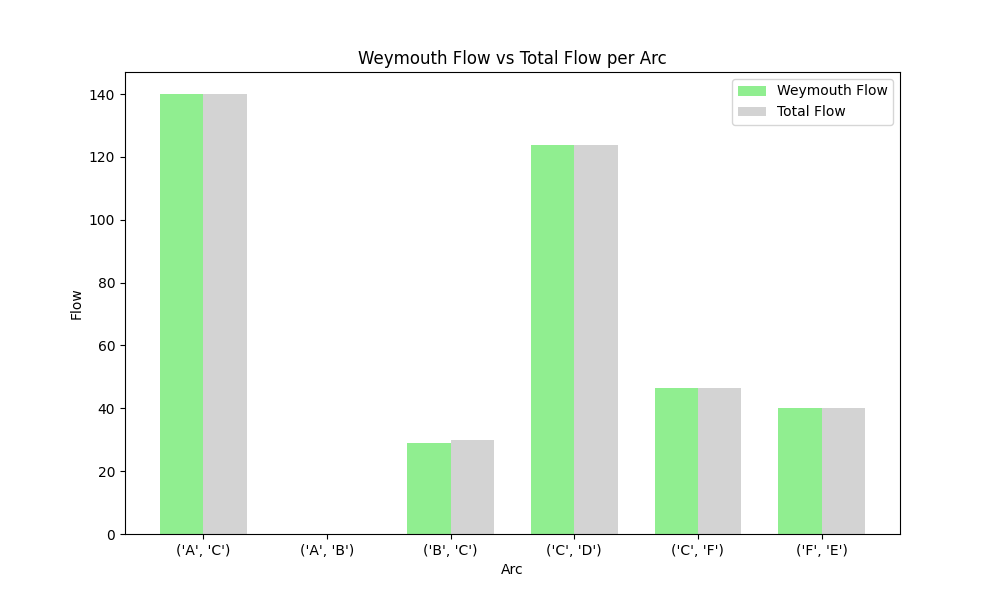
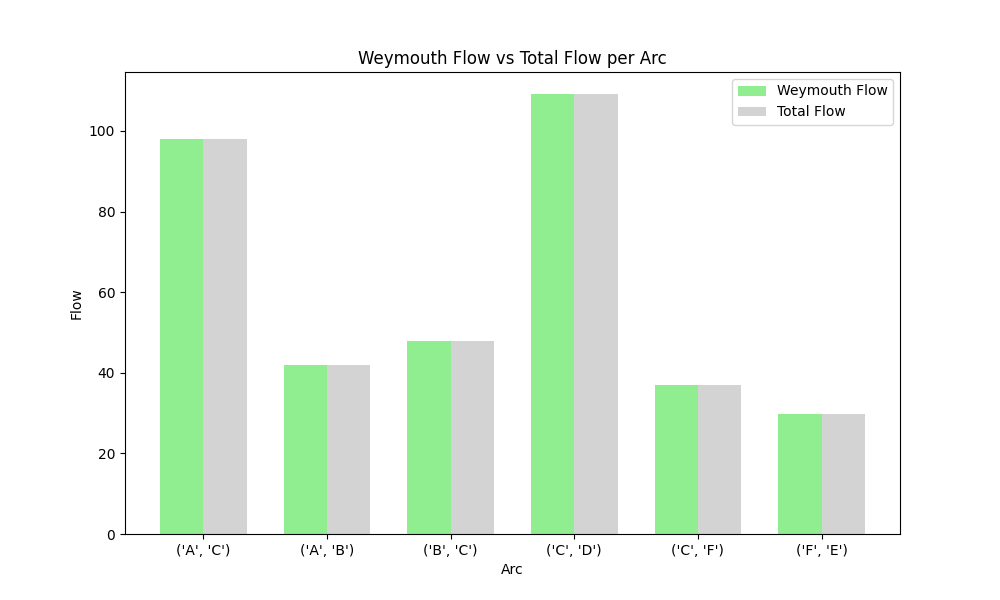
Base model done

diff --git a/base_model.py b/base_model.py
@@ -5,8 +5,12 @@ import matplotlib
 import pyomo.environ as pyo
 import networkx
 import numpy as np
+import itertools
 
-NUMBER_OF_HOMOGENEOUS_SPLITS =10 
+NUMBER_OF_HOMOGENEOUS_SPLITS =11
+
+splits_per_arc = np.linspace(0, 1, NUMBER_OF_HOMOGENEOUS_SPLITS)
+
 
 NUMBER_OF_CUTTING_PLANES_P_IN = 10
 P_IN_LOW = 4
@@ -70,7 +74,7 @@ def create_base_model(network: networkx.Graph):
 
     model.N_gamma = pyo.Set(
         within=model.N,
-        initialize=[n for n, d in network.nodes(data=True) if "compression_max" in d]
+        initialize=[n for n, d in network.nodes(data=True) if "compression_increase" in d]
     ) # Nodes with compressors
 
     model.N_s = pyo.Set(
@@ -93,7 +97,48 @@ def create_base_model(network: networkx.Graph):
     # Special order sets
     
     model.Z_theta = pyo.Set(initialize = range(NUMBER_OF_DENSITY_BOUNDS))  # Type 1, pressure upper bound
-    model.Z_v = pyo.Set(initialize = range(NUMBER_OF_HOMOGENEOUS_SPLITS))      # Type 1, homogeneous splitting
+    
+    E_nz_init = {}
+
+    # Homogeneous splitting parameters
+    for n, arcs in model.A_n_minus.items():
+        if n in model.N_s:
+            order_arcs = len(arcs)
+            E_nz_init[n] = [z for z in itertools.product(splits_per_arc, repeat=order_arcs) if sum(z) == 1]
+
+    model.Z_v = pyo.Set(model.N_s, initialize = lambda model ,n: range(len(E_nz_init[n])) if n in E_nz_init else range(0))      # Type 1, homogeneous splitting
+
+    # Auxiliary set for defining E
+    def E_index_init(model):
+        return (
+            (n, z, a)
+            for n in model.N_s
+            for z in model.Z_v[n]
+            for a in model.A_n_minus[n]
+        )
+
+    model.E_index = pyo.Set(initialize=E_index_init)
+
+    # Auxilliary set for defining e
+    def e_index_init(m):
+        return (
+            (n, c, z)
+            for n in m.N_s
+            for c in m.C
+            for z in m.Z_v[n]
+        )
+
+    model.e_index = pyo.Set(dimen=3, initialize=e_index_init)
+
+    # Auxilliary set for defining v
+    def v_index_init(m):
+        return (
+            (n, z)
+            for n in m.N_s
+            for z in m.Z_v[n]
+        )
+   
+    model.v_index = pyo.Set(dimen=2, initialize=v_index_init)
 
     # Other sets
     model.L = pyo.Set(initialize = range(len(pairs)))      # Set of cutting planes
@@ -182,10 +227,59 @@ def create_base_model(network: networkx.Graph):
     # Minimum pressure at demand nodes
     model.P_min = pyo.Param(model.N_m, initialize={n: network.nodes[n].get('min_outlet_pressure', 0) for n in model.N_m})
 
-    # Fuel consumption parameters for compression nodes
-    model.K_out_pipe = pyo.Param(model.N_gamma, initialize={n: network.nodes[n].get('compression_constants', {}).get('K_out_pipe', 0) for n in model.N_gamma})
-    model.K_into_pipe = pyo.Param(model.N_gamma, initialize={n: network.nodes[n].get('compression_constants', {}).get('K_into_pipe', 0) for n in model.N_gamma})
-    model.K_flow = pyo.Param(model.N_gamma, initialize={n: network.nodes[n].get('compression_constants', {}).get('K_flow', 0) for n in model.N_gamma})
+    # Fuel consumption parameters for compression nodes (per component)
+    model.K_out_pipe = pyo.Param(
+        model.N_gamma,
+        model.C,
+        initialize=lambda model, n, c:
+            network.nodes[n]
+            .get('compression_constants', {})
+            .get(c, {})
+            .get('K_out_pipe', 0),
+        default=0
+    )
+
+    model.K_into_pipe = pyo.Param(
+        model.N_gamma,
+        model.C,
+        initialize=lambda model, n, c:
+            network.nodes[n]
+            .get('compression_constants', {})
+            .get(c, {})
+            .get('K_into_pipe', 0),
+        default=0
+    )
+
+    model.K_flow = pyo.Param(
+        model.N_gamma,
+        model.C,
+        initialize=lambda model, n, c:
+            network.nodes[n]
+            .get('compression_constants', {})
+            .get(c, {})
+            .get('K_flow', 0),
+        default=0
+    )
+
+    # Pressure increase from compression
+    model.P_hat = pyo.Param(model.N_gamma, initialize={n: network.nodes[n].get('compression_increase', 1) for n in model.N_gamma})
+
+    # Pipe quality constraints
+    model.q_plus_arc = pyo.Param(model.A, model.C, initialize=lambda model, a1,a2, c: network.edges[a1,a2].get('max_pipe_fractions', {}).get(c, 0))
+    # Unused
+    model.q_minus_arc = pyo.Param(model.A, model.C, initialize=lambda model, a1,a2, c: 0)
+
+    # Node quality constraints
+    model.q_plus_node = pyo.Param(model.N_m, model.C, initialize=lambda model, n, c: network.nodes[n].get('max_fractions', {}).get(c, 0))
+    # Unused
+    model.q_minus_node = pyo.Param(model.N_m, model.C, initialize=lambda model, n, c: 0)
+
+
+    def E_init(m, n, z, a1,a2):
+        arc_idx = list(m.A_n_minus[n]).index((a1,a2))
+        return E_nz_init[n][z][arc_idx]
+
+    model.E_nza = pyo.Param(model.E_index, initialize=E_init)
 
     # -----------------------------
     # Variables
@@ -194,9 +288,10 @@ def create_base_model(network: networkx.Graph):
     model.p_in = pyo.Var(model.A, within=pyo.NonNegativeReals, initialize=0)  # Inlet pressure on arc a
     model.p_out = pyo.Var(model.A, within=pyo.NonNegativeReals, initialize=0)  # Outlet pressure on arc a
     model.theta = pyo.Var(model.A, model.Z_theta, within=pyo.Binary, initialize=0)  # Binary variables for pressure bounds
-    model.v = pyo.Var(model.N_s, model.Z_v, within=pyo.Binary, initialize=0)  # Binary variables for homogeneous splitting
+    model.v = pyo.Var(model.v_index, within=pyo.Binary, initialize=0)  # Binary variables for homogeneous splitting
     model.w = pyo.Var(model.N_gamma, model.C, within=pyo.NonNegativeReals, initialize=0)  # Continuous variables for compression fuel consumption
-    
+    model.e = pyo.Var(model.e_index, domain=pyo.NonNegativeReals, initialize=0)  # Auxiliary variable for homogeneous splitting flow
+
     #-----------------------------
     # Objective Function
     #-----------------------------
@@ -228,13 +323,13 @@ def create_base_model(network: networkx.Graph):
     # Constraint 2: Component ratio constraint (byproduct/stoichiometric)
     def component_ratio_rule(model, n, c):
         if n in model.N_hg and c in model.C:
-            return sum(model.f[a, c] for a in model.A_n_minus[n]) == model.alpha[n, c] * sum(model.f[a, cp] for a in model.A_n_minus[n] for cp in model.C)
+            return sum(model.f[a, c] for a in model.A_n_minus[n]) - sum(model.f[a, c] for a in model.A_n_plus[n]) == model.alpha[n, c] * (sum(model.f[a, cp] for a in model.A_n_minus[n] for cp in model.C) - sum(model.f[a, cp] for a in model.A_n_plus[n] for cp in model.C))
         return pyo.Constraint.Skip
     model.component_ratio = pyo.Constraint(model.N_hg, model.C, rule=component_ratio_rule)
 
     # Constraint 3: Demand satisfaction constraint for production nodes
     def demand_satisfaction_production_rule(model, h):
-        return sum(model.f[a, c] for c in model.C for n_prime in model.N_hg if model.supplier[n_prime] == h for a in model.A_n_minus[n_prime] ) >= sum(model.D[h,n] for n in model.N_m)
+        return sum(model.f[a, c] for c in model.C for n_prime in model.N_hg if model.supplier[n_prime] == h for a in model.A_n_minus[n_prime] ) -sum(model.f[a, c] for c in model.C for n_prime in model.N_hg if model.supplier[n_prime] == h for a in model.A_n_plus[n_prime] ) >= sum(model.D[h,n] for n in model.N_m)
     model.demand_satisfaction_production = pyo.Constraint( model.H, rule=demand_satisfaction_production_rule)
 
     # Constraint 4: Demand satisfaction constraint for market nodes
@@ -338,7 +433,7 @@ def create_base_model(network: networkx.Graph):
             # For each arc into the compression node, compute fuel consumption
             a = model.A_n_minus[n].first()
             a_prime = model.A_n_plus[n].first()
-            return model.w[n, c] == model.K_out_pipe[n] * model.p_in[a] - model.K_into_pipe[n] * model.p_out[a_prime] + model.K_flow[n] * model.f[a,c]
+            return model.w[n, c] == model.K_out_pipe[n, c] * model.p_in[a] - model.K_into_pipe[n, c] * model.p_out[a_prime] + model.K_flow[n, c] * model.f[a,c]
         return pyo.Constraint.Skip
 
     model.fuel_consumption = pyo.Constraint(model.N_gamma, model.C, rule=fuel_consumption_rule)
@@ -350,18 +445,67 @@ def create_base_model(network: networkx.Graph):
 
     model.fuel_flow_balance = pyo.Constraint(model.N_gamma, model.C, rule=fuel_flow_balance_rule)
 
-    def max_compression_rule(model, n):
+    def compression_increase_rule(model, n):
         if n in model.N_gamma:
             a = model.A_n_minus[n].first()
-            return model.p_in[a] <= network.nodes[n]['compression_max']
+            a_prime = model.A_n_plus[n].first()
+            return model.p_in[a] == model.P_hat[n] * model.p_out[a_prime]
         return pyo.Constraint.Skip
 
-    model.max_compression = pyo.Constraint(model.N_gamma, rule=max_compression_rule)
-
+    model.compression_increase = pyo.Constraint(model.N_gamma, rule=compression_increase_rule)
+    print(model.N_gamma.pprint())
 
     # ________________
     # Quality constraints
     # ________________
+
+    # Composition per pipe
+    def pipe_composition_max_rule(model, a1, a2, c):
+        return model.f[a1, a2,c] <= model.q_plus_arc[a1, a2,c] * sum(model.f[a1, a2, cp] for cp in model.C)
+
+    model.pipe_composition_max = pyo.Constraint(model.A, model.C, rule=pipe_composition_max_rule)
+
+    # Unused
+    def pipe_composition_min_rule(model, a1, a2, c):
+        return model.f[a1, a2,c] >= model.q_minus_arc[a1, a2,c] * sum(model.f[a1, a2, cp] for cp in model.C)
+
+    model.pipe_composition_min = pyo.Constraint(model.A, model.C, rule =pipe_composition_min_rule)
+
+    # Composition at market nodes
+    def market_node_max_rule(model, n, c):
+        return sum(model.f[a, c] for a in model.A_n_plus[n]) <= model.q_plus_node[n, c] * sum(model.f[a, cp] for a in model.A_n_plus[n] for cp in model.C)
+    
+    model.market_node_max = pyo.Constraint(model.N_m, model.C, rule=market_node_max_rule)
+
+    # Unused
+    def market_node_min_rule(model, n, c):
+        return sum(model.f[a, c] for a in model.A_n_plus[n]) >= model.q_minus_node[n, c] * sum(model.f[a, cp] for a in model.A_n_plus[n] for cp in model.C)
+    
+    model.market_node_min = pyo.Constraint(model.N_m, model.C, rule=market_node_min_rule)
+
+    #_______________
+    # Homogeneous splitting constraints
+    #_______________
+
+    def SOS1_v(model, n):
+        return sum(model.v[n, z] for z in model.Z_v[n]) == 1 
+
+    model.S1_v = pyo.Constraint(model.N_s, rule =SOS1_v)
+
+    def choice_v_flow_rule(model, n, z):
+        if n in model.N_s:
+            return sum(model.e[n, c, z] for c in model.C) <= model.v[n, z] * model.M_n[n]
+        return pyo.Constraint.Skip
+
+    model.choice_v_flow = pyo.Constraint(model.v_index, rule=choice_v_flow_rule)
+
+    def homogeneous_split_rule(model, a1, a2, n, c):
+        if (a1,a2) in model.A_n_minus[n] and n in model.N_s:
+            return model.f[a1, a2, c] == sum(model.e[n, c, z] * model.E_nza[n, z, a1, a2] for z in model.Z_v[n])
+        else:
+            return pyo.Constraint.Skip
+
+    model.homogeneous_split = pyo.Constraint(model.A, model.N_s, model.C, rule=homogeneous_split_rule)
 
     #------------------------------
     # Expressions
@@ -377,7 +521,6 @@ def create_base_model(network: networkx.Graph):
 
     # Weymouth flow on each arc
     model.weymouth_flow = pyo.Expression(model.A, rule=lambda model, a1, a2: sum(model.theta[a1,a2,z] * model.K_az[a1,a2,z] * (model.p_in[a1,a2]**2 - model.p_out[a1,a2]**2)**0.5 for z in model.Z_theta))
-
 
     return model
 
@@ -493,11 +636,72 @@ def total_v_weymouth_flow_plot(model):
     plt.savefig("weymouth_vs_total_flow_plot.png")  # Save the plot as a PNG file
     plt.show()
 
+def plot_demand_and_composition_per_node(model):
+    """
+    Plot demand per supplier and gas composition delivered side-by-side for each demand node.
+    """
+    demand_nodes = list(model.N_m)
+    suppliers = list(model.H)
+    components = list(model.C)
+    
+    # Define consistent colors for suppliers and components
+    supplier_colors = {h: plt.cm.Set1(i) for i, h in enumerate(suppliers)}
+    component_colors = {c: plt.cm.Set2(i) for i, c in enumerate(components)}
+    
+    fig, ax = plt.subplots(figsize=(14, 6))
+    
+    bar_width = 0.35
+    x_pos = 0
+    x_ticks = []
+    x_labels = []
+    
+    for n in demand_nodes:
+        # Plot 1: Demand per supplier (stacked)
+        demand_values = [pyo.value(model.D[h, n]) for h in suppliers]
+        
+        bottom = 0
+        for h in suppliers:
+            demand = pyo.value(model.D[h, n])
+            ax.bar(x_pos, demand, bar_width, bottom=bottom, 
+                   color=supplier_colors[h], label=f'Supplier {h}' if demand_nodes.index(n) == 0 else "")
+            bottom += demand
+        
+        x_ticks.append(x_pos)
+        x_labels.append(f'{n}\n(Demand)')
+        x_pos += bar_width + 0.05
+        
+        # Plot 2: Composition delivered (stacked)
+        composition_values = {c: pyo.value(sum(model.f[a, c] for a in model.A_n_plus[n])) for c in components}
+        
+        bottom = 0
+        for c in components:
+            ax.bar(x_pos, composition_values[c], bar_width, bottom=bottom, 
+                   color=component_colors[c], label=f'Component {c}' if demand_nodes.index(n) == 0 else "")
+            bottom += composition_values[c]
+        
+        x_ticks.append(x_pos)
+        x_labels.append(f'{n}\n(Composition)')
+        
+        x_pos += bar_width + 0.3
+    
+    ax.set_ylabel("Flow")
+    ax.set_title("Demand vs Composition Delivered at Each Node")
+    ax.set_xticks(x_ticks)
+    ax.set_xticklabels(x_labels, fontsize=9)
+    ax.legend(loc='upper left', fontsize=9)
+    ax.grid(axis='y', alpha=0.3)
+    
+    plt.tight_layout()
+    plt.savefig("demand_and_composition_per_node_plot.png")
+    plt.show()
+
+
 def plot_results(model):
     plot_flow_per_arc(model)
     plot_inlet_outlet_pressures(model)
     plot_relative_density(model)
     total_v_weymouth_flow_plot(model)
+    plot_demand_and_composition_per_node(model)
 
 
 if __name__ == "__main__":

diff --git a/network.py b/network.py
@@ -111,34 +111,33 @@ def plot_network(G):
 def example_graph():
     G = nx.DiGraph()
 
-    compression_contants = {
-        "K_out_pipe" : 0.5,
-        "K_into_pipe"  : 0.5,
-        "K_flow" : 0.2,
+    compression_constants = {
+        "NG": {"K_out_pipe": 0.5, "K_into_pipe": 0.5, "K_flow": 0.2},
+        "H2": {"K_out_pipe": 0.06, "K_into_pipe": 0.06, "K_flow": 0.25},
+        "CO2": {"K_out_pipe": 0.05, "K_into_pipe": 0.05, "K_flow": 0.22},
     }
 
     nodes = {
-        "A": dict(max_flow=200, supply_capacity=140, component_ratio={"NG": 0.98, "CO2": 0.02, "H2": 0.00}, generation_cost=0.5, supplier="Shell"),
+        "A": dict(max_flow=200, supply_capacity=140, component_ratio={"NG": 0.98, "CO2": 0.02, "H2": 0.00}, generation_cost=0.5, supplier="Shell", split_homogeneous=True),
         "B": dict(max_flow=200, supply_capacity=50, component_ratio={"NG": 0.00, "CO2": 0.00, "H2": 1.00}, generation_cost=1.2, supplier="Equinor"),
-        "C": dict(max_flow=200, split_homogeneous=True),
-        "D": dict(max_flow=200, demand={"Shell": 80, "Equinor": 10}, price=1.1, min_outlet_pressure=5),
-        "E": dict(max_flow=200, demand={"Shell": 20, "Equinor": 20}, price=1.3, min_outlet_pressure=5), 
-        "F": dict(max_flow=200, compression_max=8, compression_constants=compression_contants),
+        "C": dict(max_flow=200),
+        "D": dict(max_flow=200, demand={"Shell": 80, "Equinor": 5}, price=1.1, min_outlet_pressure=5, max_fractions = {"NG": 1, "CO2": 0.025, "H2": 0.02}),
+        "E": dict(max_flow=200, demand={"Shell": 20, "Equinor": 1}, price=1.3, min_outlet_pressure=5, max_fractions = {"NG": 1, "CO2": 0.025, "H2": 0.1}), 
+        "F": dict(max_flow=200, compression_increase=1.5, compression_constants=compression_constants),
     }
 
     edges = [
-        ("A", "C", dict(max_flow=90, max_hydrogen_fraction=0.2,
+        ("A", "C", dict(max_flow=90, max_pipe_fractions={"NG": 1, "CO2": 1, "H2": 0.2},
                         max_inlet_pressure=10, pressure_cost=0.05, weymouth_constant=18)),
-        ("A", "B", dict(max_flow=90, max_hydrogen_fraction=0.2,
+        ("A", "B", dict(max_flow=90, max_pipe_fractions={"NG": 1, "CO2": 1, "H2": 0.00},
                 max_inlet_pressure=10, pressure_cost=0.05, weymouth_constant=18)),
-        ("B", "C", dict(max_flow=40, max_hydrogen_fraction=0.15,
+        ("B", "C", dict(max_flow=40, max_pipe_fractions={"NG": 1, "CO2": 1, "H2": 0.15},
                         max_inlet_pressure=9, pressure_cost=0.04, weymouth_constant=18)),
-        ("C", "D", dict(max_flow=140, max_hydrogen_fraction=0.05,
+        ("C", "D", dict(max_flow=140, max_pipe_fractions={"NG": 1, "CO2": 1, "H2": 0.05},
                         max_inlet_pressure=8, pressure_cost=0.06, weymouth_constant=18)),
-        ("C", "F", dict(max_flow=70, max_hydrogen_fraction=0.3,
-                         max_inlet_pressure=7,
-                        pressure_cost=0.05, weymouth_constant=18)),
-        ("F", "E", dict(max_flow=60, max_hydrogen_fraction=0.25,
+        ("C", "F", dict(max_flow=70, max_pipe_fractions={"NG": 1, "CO2": 1, "H2": 0.3},
+                         max_inlet_pressure=7, pressure_cost=0.01, weymouth_constant=18)),
+        ("F", "E", dict(max_flow=60, max_pipe_fractions={"NG": 1, "CO2": 1, "H2": 0.25},
                          max_inlet_pressure=6,
                         pressure_cost=0.07, weymouth_constant=18)),
     ]
